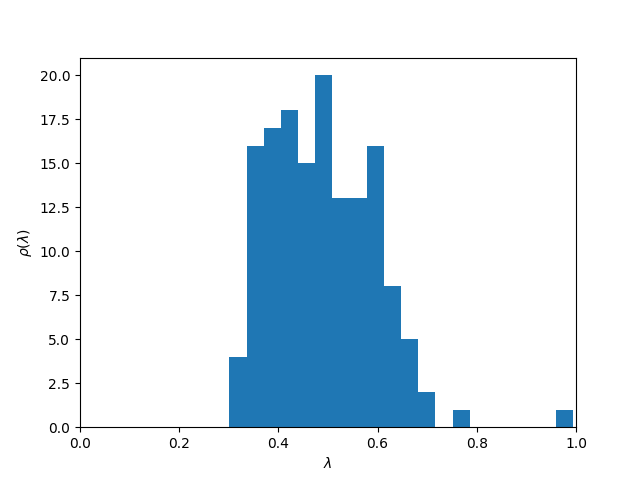
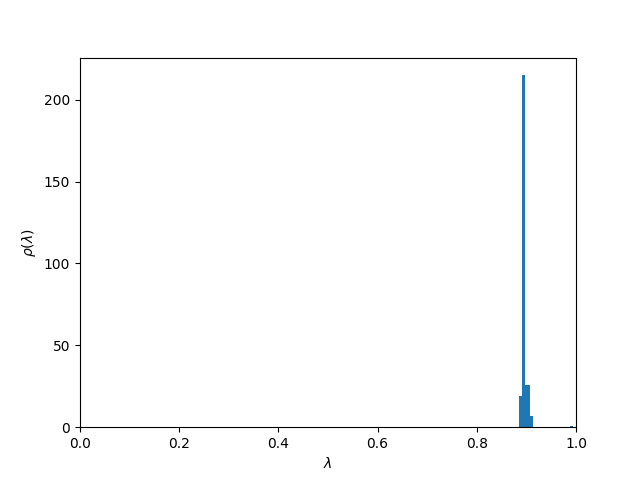
Backup

diff --git a/final_sparse_matrices.py b/final_sparse_matrices.py
@@ -14,6 +14,7 @@ from tqdm import tqdm
 
 # Local modules
 from parameters import get_parameters
+from parameters import get_f_russo
 import patterns
 import correlations
 import initialisation
@@ -28,11 +29,13 @@ if os.environ.get('DISPLAY', '') == '':
 dt, tSim, N, S, p, num_fact, p_fact, dzeta, a_pf, eps, cm, a, U, T, w, \
     tau_1, tau_2, tau_3_A, tau_3_B, g_A, beta, g, t_0, tau, cue_ind, \
     random_seed = get_parameters()
+f_russo = get_f_russo()
+
 rd.seed(random_seed)
 
 
 # if 'ksi_i_mu'not in locals():
-ksi_i_mu, delta__ksi_i_mu__k = patterns.get_vijay()
+ksi_i_mu, delta__ksi_i_mu__k = patterns.get_vijay(f_russo)
 
 J_i_j_k_l = initialisation.hebbian_tensor(delta__ksi_i_mu__k)
 

diff --git a/lambda_analysis_sparse_matrices.py b/lambda_analysis_sparse_matrices.py
@@ -14,6 +14,7 @@ from tqdm import tqdm
 
 # Local modules
 from parameters import get_parameters
+from parameters import get_f_russo
 import patterns
 import correlations
 import initialisation
@@ -29,6 +30,8 @@ dt, tSim, N, S, p, num_fact, p_fact, dzeta, a_pf, eps, cm, a, U, T, w, \
     tau_1, tau_2, tau_3_A, tau_3_B, g_A, beta, g, t_0, tau, cue_ind, \
     random_seed = get_parameters()
 
+f_russo = get_f_russo()
+
 rd.seed(random_seed)
 
 tS = np.arange(0, tSim, dt)
@@ -36,9 +39,6 @@ nT = tS.shape[0]
 
 analyseTime = False
 analyseDivergence = False
-
-df = 0.1
-f_russo_vect = np.arange(0, 1, df)
 
 ksi_i_mu, delta__ksi_i_mu__k = patterns.get_vijay(f_russo)
 
